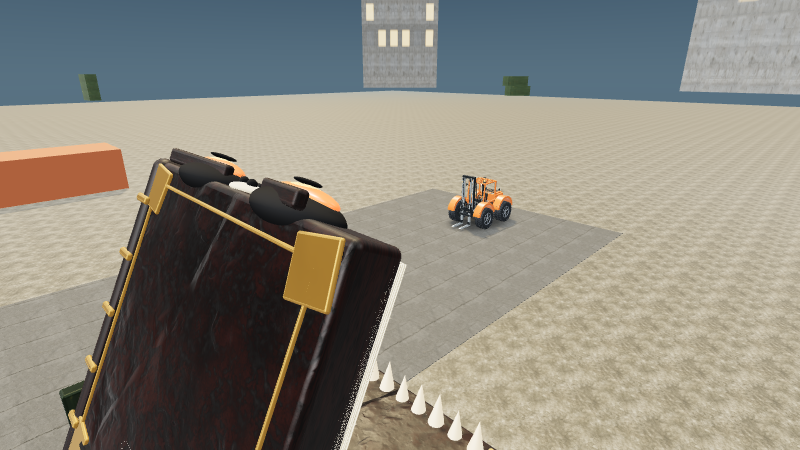
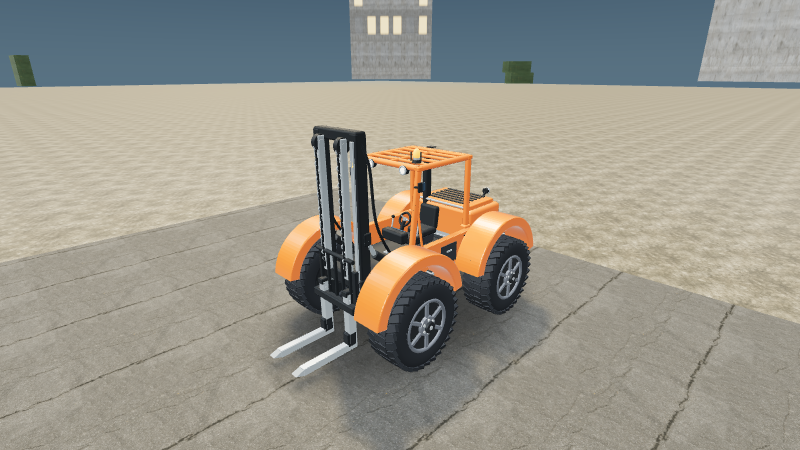
Fix vehicle preview framing via headlight-bounds exclusion (TDD)
The 24-unit headlight cones inflated vehiclePreview bounds and pushed
the camera 45 units out. bodyBounds skips the rig subtree. Recapture
forklift, street-sweeper, monster-truck and watermelon-car; roster the
melon in the vehicle matrix.

diff --git a/tests/headlight-bounds.test.ts b/tests/headlight-bounds.test.ts
@@ -1,0 +1,37 @@
+import { expect, it } from "vitest";
+import * as T from "three";
+import { createTruck } from "../src/truck";
+import {
+  bodyBounds,
+  buildHeadlightRig,
+  setHeadlightRig,
+} from "../src/headlights";
+
+function riggedTruck(day: boolean) {
+  const truck = createTruck();
+  const rig = buildHeadlightRig();
+  truck.getObjectByName("hood")!.add(rig);
+  setHeadlightRig(rig, !day);
+  truck.updateMatrixWorld(true);
+  return { truck, rig };
+}
+
+it("sees the 24-unit beams in naive truck bounds", () => {
+  const { truck } = riggedTruck(true);
+  const naive = new T.Box3().setFromObject(truck);
+  expect(naive.getSize(new T.Vector3()).length()).toBeGreaterThan(20);
+});
+
+it.each([true, false])(
+  "excludes the headlight rig from body bounds (day=%s)",
+  (day) => {
+    const { truck, rig } = riggedTruck(day);
+    const tight = bodyBounds(truck, rig);
+    expect(tight.getSize(new T.Vector3()).length()).toBeLessThan(14);
+    truck.getObjectByName("hood")!.remove(rig);
+    truck.updateMatrixWorld(true);
+    const bare = new T.Box3().setFromObject(truck);
+    expect(tight.min.toArray()).toEqual(bare.min.toArray());
+    expect(tight.max.toArray()).toEqual(bare.max.toArray());
+  },
+);

diff --git a/src/view.ts b/src/view.ts
@@ -27,7 +27,7 @@ import { SkidView } from "./skids";
 import { LoopView } from "./loop-view";
 import { BackgroundView } from "./background-view";
 import { getBackgroundTemplate, resolveMood } from "./backgrounds";
-import { buildHeadlightRig, setHeadlightRig } from "./headlights";
+import { bodyBounds, buildHeadlightRig, setHeadlightRig } from "./headlights";
 import { buildWheelSpray, updateWheelSpray } from "./wheel-spray";
 export class GameView {
   readonly scene = new T.Scene();
@@ -1074,7 +1074,7 @@ export class GameView {
   /** Frame the actual in-game vehicle and course for reproducible garage screenshots. */
   vehiclePreview() {
     this.render(true);
-    const bounds = new T.Box3().setFromObject(this.truck);
+    const bounds = bodyBounds(this.truck, this.headlightRig);
     const center = bounds.getCenter(new T.Vector3());
     const radius = bounds.getSize(new T.Vector3()).length() / 2;
     const distance =

diff --git a/src/headlights.ts b/src/headlights.ts
@@ -42,6 +42,17 @@ export function buildHeadlightRig(): T.Group {
   return rig;
 }
 
+/** World bounds of bodywork meshes, skipping light-beam rigs that dwarf them. */
+export function bodyBounds(root: T.Object3D, rig?: T.Object3D | null): T.Box3 {
+  const bounds = new T.Box3();
+  const skip = new Set<T.Object3D>();
+  rig?.traverse((o) => skip.add(o));
+  root.traverse((o) => {
+    if (o instanceof T.Mesh && !skip.has(o)) bounds.expandByObject(o);
+  });
+  return bounds;
+}
+
 /** Toggle every light, cone and bulb in the rig together. */
 export function setHeadlightRig(rig: T.Group, on: boolean) {
   rig.traverse((o) => {

diff --git a/tests/vehicle-matrix.test.ts b/tests/vehicle-matrix.test.ts
@@ -19,6 +19,7 @@ expect(VEHICLES.map((v) => v.id)).toEqual([
   "snow-groomer",
   "hot-rod",
   "tow-truck",
+  "watermelon-car",
   "dune-buggy",
   "rally-hatch",
   "racing-semi",
